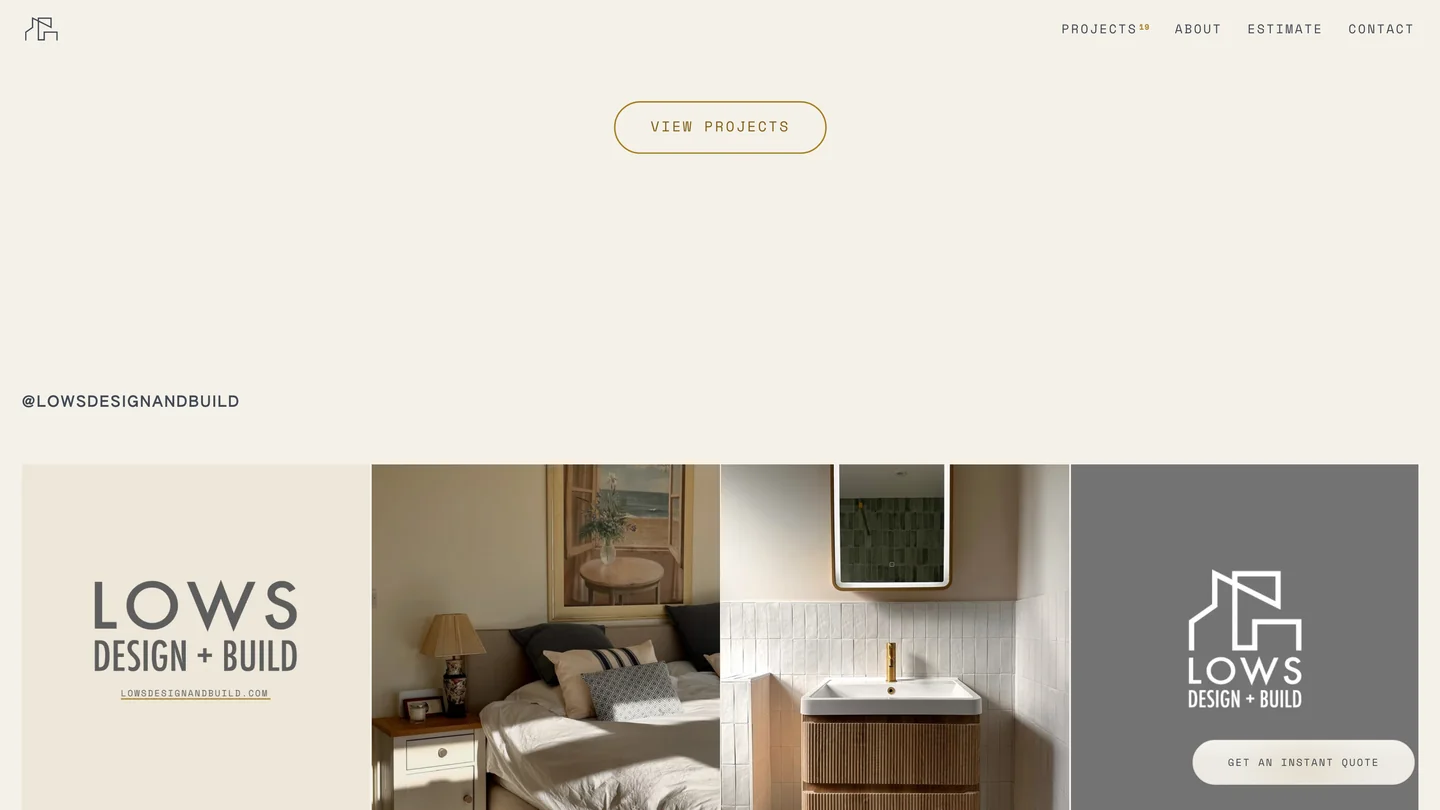
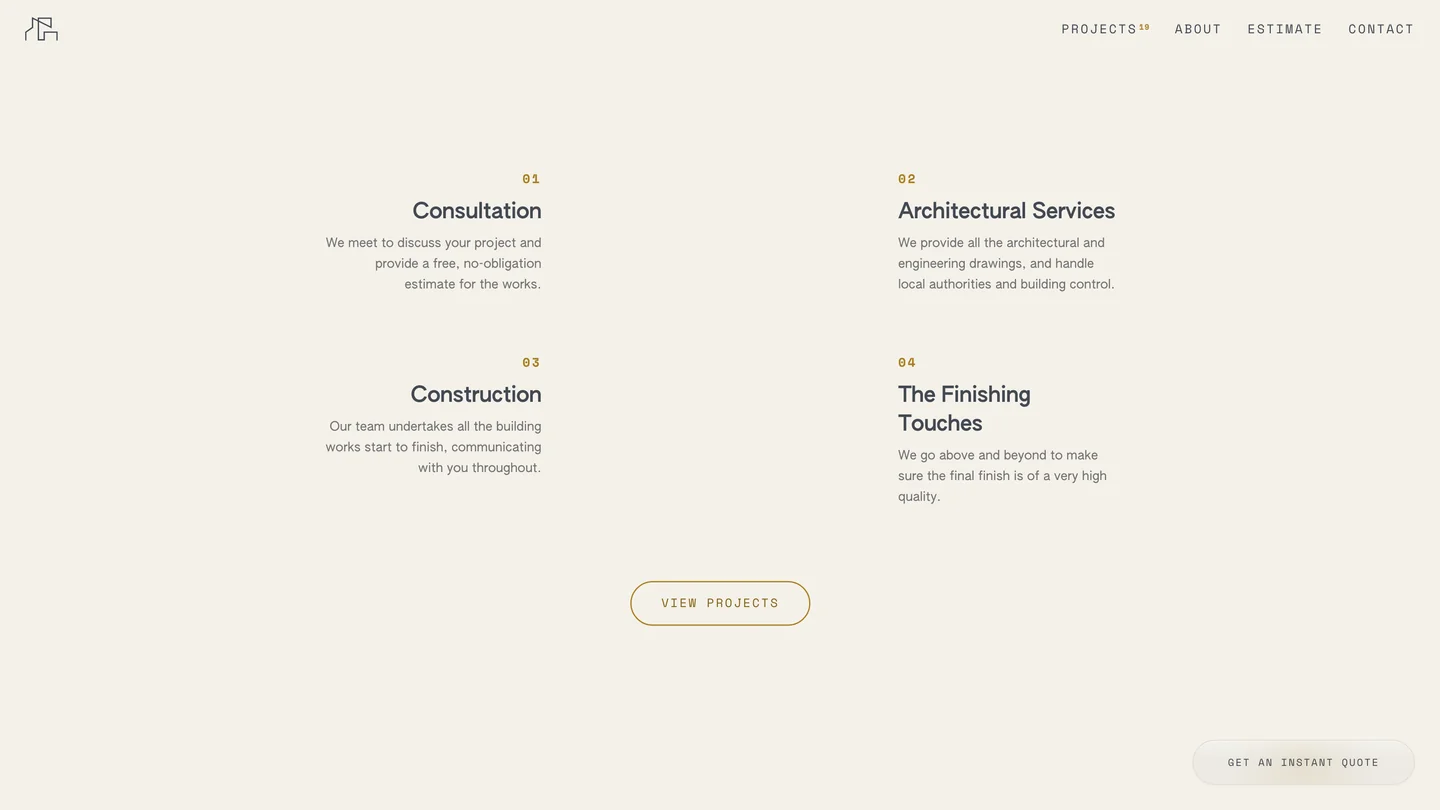
Complete hover-cycle web previews: add all section shots + finalize data
The section-screenshot capture finished after the feature shipped with a
partial set. Add the remaining shots (lows now hero/services/brand/projects,
lola hero/portfolio/film-detail) and regenerate the batch at a consistent
1440x810 crop from a fresh pass, so hovering a web thumbnail on the home
list and /work cards cross-fades through up to 4 notable sections. Click
still opens the case study.

diff --git a/app/(site)/page.tsx b/app/(site)/page.tsx
@@ -33,7 +33,7 @@ const WEBSITES: Website[] = [
     url: "https://www.lowsdesignandbuild.com",
     year: "2026",
     bio: "A family-run design and build company in London. The brand came first, logo through to the vehicle wrap, and now the site matches it: a custom build with instant quoting and the full project story.",
-    images: ["/images/web/lows-1.webp", "/images/web/lows-2.webp", "/images/web/lows-3.webp"],
+    images: ["/images/web/lows-1.webp", "/images/web/lows-2.webp", "/images/web/lows-3.webp", "/images/web/lows-4.webp"],
     caseStudy: "/case-studies/lows-design-build",
   },
   {
@@ -51,7 +51,7 @@ const WEBSITES: Website[] = [
     url: "https://www.lola-audio.com",
     year: "2026",
     bio: "A portfolio for a composer and sound designer that opens on a working mixing desk: push a fader and her stems play in time, while a line of type draws the live mix. Sanity CMS down to the sound itself.",
-    images: ["/images/web/lola-1.webp", "/images/web/lola-2.webp"],
+    images: ["/images/web/lola-1.webp", "/images/web/lola-2.webp", "/images/web/lola-3.webp"],
     caseStudy: "/case-studies/lola-audio",
   },
   {

diff --git a/content/projects.ts b/content/projects.ts
@@ -836,7 +836,7 @@ export const projects: Project[] = [
       video: "/images/lows-design-build/site-scroll-3d.mp4?v=2",
     },
     webThumb: "/images/web/lows-1.webp",
-    webShots: ["/images/web/lows-1.webp", "/images/web/lows-2.webp", "/images/web/lows-3.webp"],
+    webShots: ["/images/web/lows-1.webp", "/images/web/lows-2.webp", "/images/web/lows-3.webp", "/images/web/lows-4.webp"],
     brandThumb: {
       logo: "/images/lows-design-build/logomark.svg",
       colors: ["#424952", "#A99E92", "#E6E0D6"],
@@ -1083,7 +1083,7 @@ export const projects: Project[] = [
       video: "/images/lola-audio/site-scroll-3d.mp4?v=2",
     },
     webThumb: "/images/web/lola-1.webp",
-    webShots: ["/images/web/lola-1.webp", "/images/web/lola-2.webp"],
+    webShots: ["/images/web/lola-1.webp", "/images/web/lola-2.webp", "/images/web/lola-3.webp"],
     heroImage: {
       src: "/images/web/lola-1.webp",
       alt: "Lola Audio title card, a white sheet of paper with a signature logo between two working mixing-desk faders",
